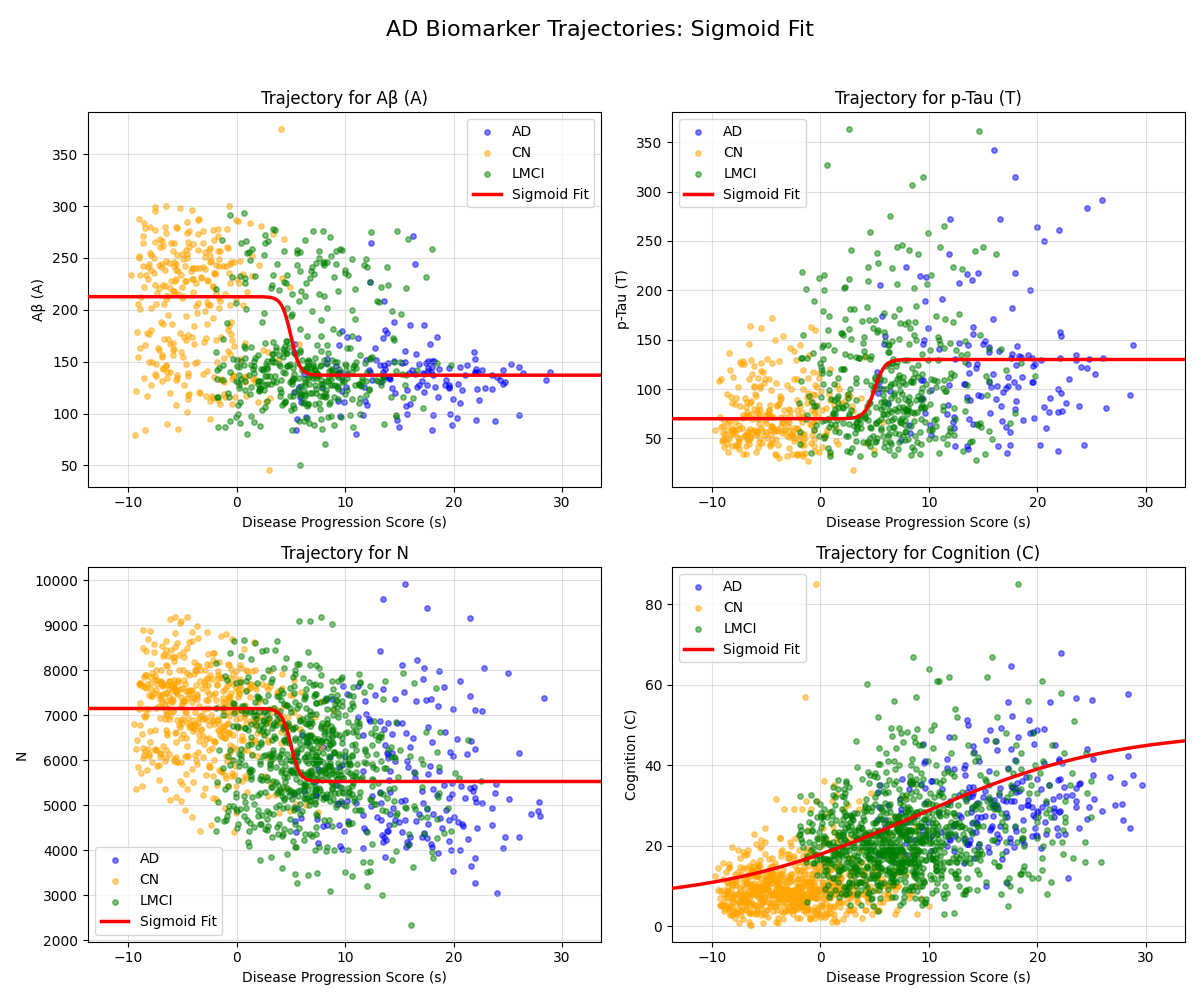
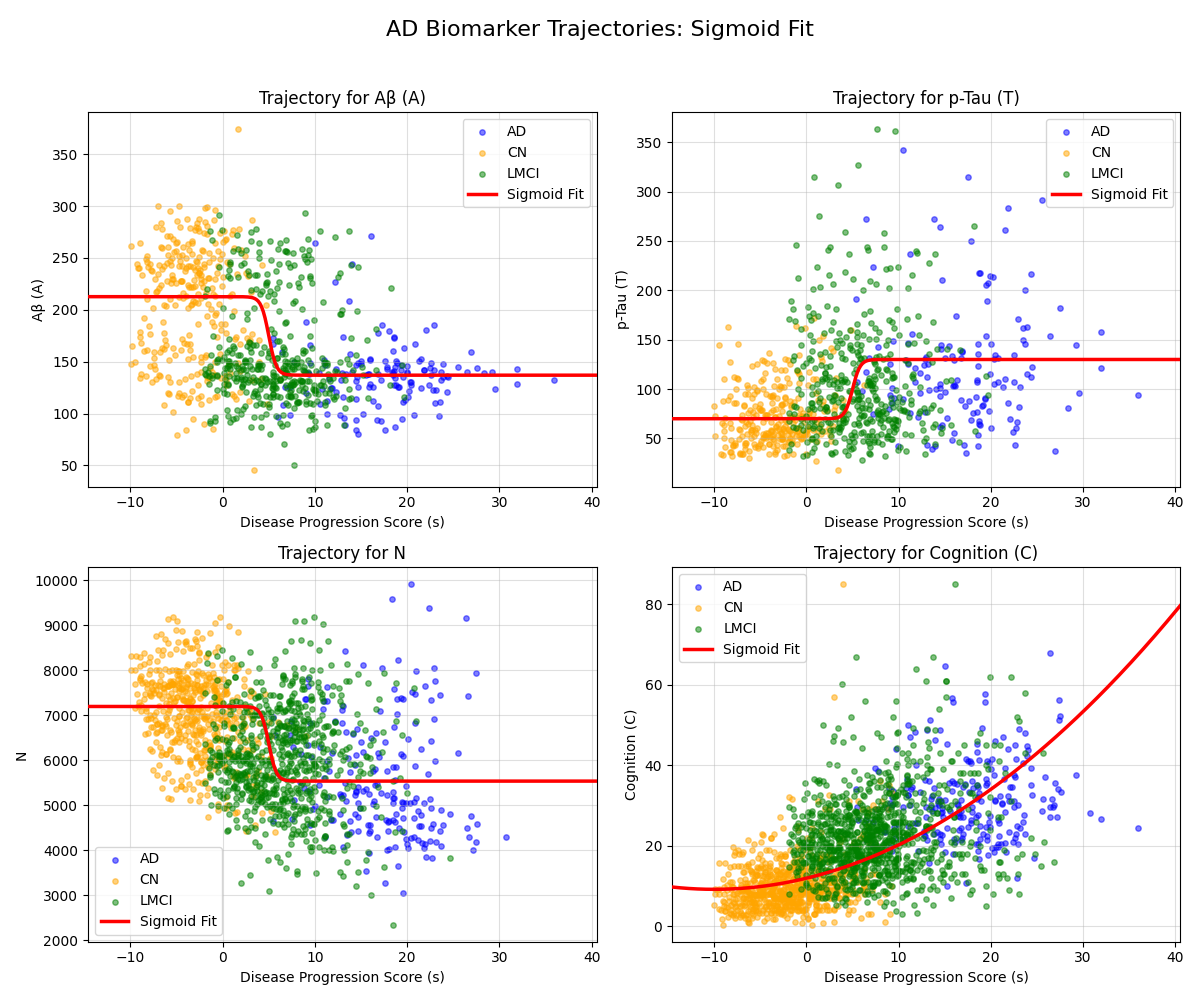
fit C with quadratic polynomial

diff --git a/sigmoid.py b/sigmoid.py
@@ -310,13 +310,9 @@ def _sigmoid_fit_loss(params, s_valid, y_valid, reg_cfg):
 
 def fit_sigmoids_regularized(s_data, y_data, reg_cfg=None):
     """
-    为4个biomarker拟合sigmoid函数，正则约束：
-    1) 两个拐点在0、10附近
-    2) 中心点在0~10之间
-    3) 曲率更大（|b|更大）
-    4) 幅度不要过大
-    5) 通过指定点 (s_target, y_target)
-    6) 上/下平台接近 CN/AD 平均值
+    拟合4个biomarker轨迹：
+    - k=0,1,2 使用 sigmoid + 正则约束
+    - k=3 (C) 使用二次函数（无额外正则）
     """
     def _tau_bc_residuals(x_bc, s_valid, y_valid, reg_cfg_k, fixed_a, fixed_d):
         b, c = x_bc
@@ -371,6 +367,24 @@ def fit_sigmoids_regularized(s_data, y_data, reg_cfg=None):
             default_params = np.array([1.0, 1.0, 5.0, 0.0])
             sigmoid_params.append(default_params)
             total_loss += _sigmoid_fit_loss(default_params, s_k_valid, y_k_valid, reg_cfg_k)
+            continue
+
+        # C(k=3): 使用 y = a*(s-b)^2 + c，其中 b 固定、c 固定，只优化 a
+        if k == 3:
+            b_fixed = float(reg_cfg.get('c_quad_b_fixed', -10.0))
+            c_fixed = float(reg_cfg.get('c_quad_c_fixed', reg_cfg_k.get('y_cn', 0.0)))
+
+            x = (s_k_valid - b_fixed) ** 2
+            y_shift = y_k_valid - c_fixed
+            denom = np.sum(x * x)
+            a_opt = 0.0 if denom < 1e-12 else float(np.sum(x * y_shift) / denom)
+
+            # 用 [a,b,c,d] 容器回传：约定 a->a_opt, b->b_fixed, c->c_fixed, d->NaN
+            params_opt = np.array([a_opt, b_fixed, c_fixed, np.nan], dtype=np.float64)
+
+            y_pred_quad = a_opt * ((s_k_valid - b_fixed) ** 2) + c_fixed
+            total_loss += float(np.mean((y_pred_quad - y_k_valid) ** 2))
+            sigmoid_params.append(params_opt)
             continue
 
         amp_init = np.max(y_k_valid) - np.min(y_k_valid)
@@ -453,6 +467,8 @@ def train_sigmoid_only(csf_dict, stage_dict):
             'tau_fix_platform': True,
             'tau_lower_norm': tau_lower_norm,
             'tau_upper_norm': tau_upper_norm,
+            'c_quad_b_fixed': -10.0,
+            'c_quad_c_fixed': float(y0_cn[3]),
             'y_cn': y0_cn,
             'y_ad': y_ad
         }
@@ -471,6 +487,14 @@ def get_sigmoid_derivatives(s_grid, params):
 
     for k in range(4):
         a, b, c, d = params[k]
+
+        # C(k=3) 使用二次函数：y = a*(s-b)^2 + c（约定 d 为 NaN）
+        if k == 3 and np.isnan(d):
+            a_quad, b_quad, c_quad = a, b, c
+            y_on_grid[:, k] = a_quad * ((s_grid - b_quad) ** 2) + c_quad
+            dyds_on_grid[:, k] = 2.0 * a_quad * (s_grid - b_quad)
+            continue
+
         exp_arg = np.clip(-b * (s_grid - c), -50.0, 50.0)
         exp_term = np.exp(exp_arg)
         denom = (1.0 + exp_term) ** 2
